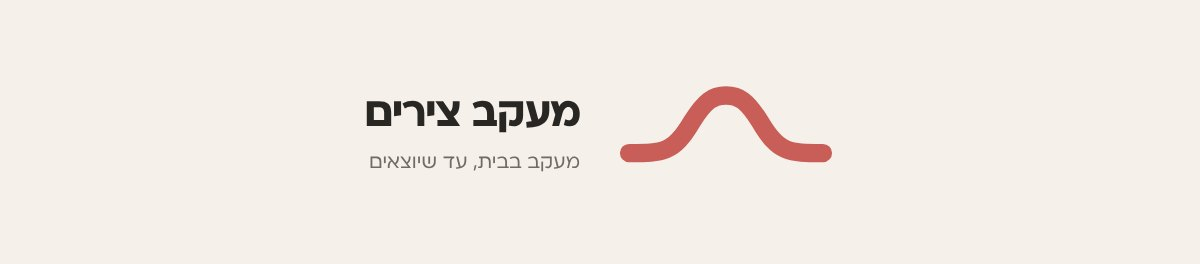
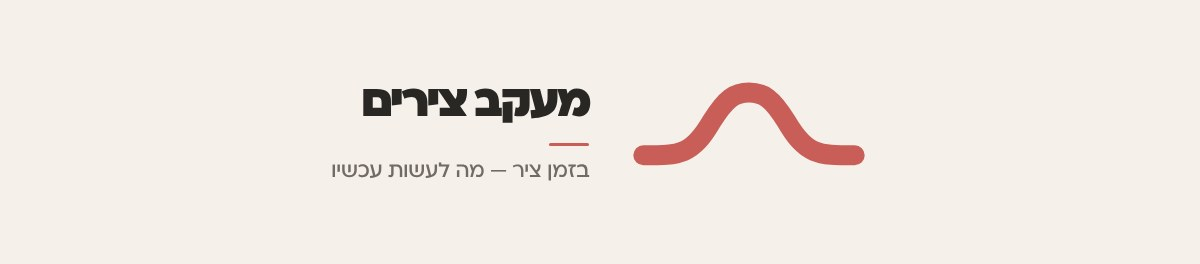
Rewrite the cover around the product line
The share card and banner now lead with the wave and "בזמן ציר — מה לעשות עכשיו" instead of a leftover tagline.

Changed region(s): [[0.2775, 0.303, 0.74, 0.697], [0.2775, 0.3333, 0.4933, 0.5152]]

diff --git a/src/routes/__root.tsx b/src/routes/__root.tsx
@@ -20,7 +20,7 @@ export const Route = createRootRoute({
       { title: APP_NAME },
       { name: "application-name", content: APP_NAME },
       { name: "apple-mobile-web-app-title", content: APP_NAME },
-      { name: "description", content: "מעקב צירים בבית — משך, מרווח וכלל 5-1-1, עד שיוצאים לחדר לידה." },
+      { name: "description", content: "בזמן צירים, כשקשה לחשוב — מה לעשות עכשיו. משך, מרווח, ומתי יוצאים לחדר לידה." },
       { name: "theme-color", content: "#F5F1EA" },
     ],
     links: [

diff --git a/src/components/onboarding.tsx b/src/components/onboarding.tsx
@@ -28,7 +28,7 @@ export function Onboarding() {
       <div className="w-full max-w-md">
         <BrandWave className="mb-4 w-20 text-active" />
         <p className="font-display text-3xl font-bold tracking-tight text-fg">מעקב צירים</p>
-        <p className="mt-1 text-sm text-muted">מעקב בבית, עד שיוצאים</p>
+        <p className="mt-1 text-sm text-muted">בזמן ציר — מה לעשות עכשיו</p>
 
         {step === 0 ? <WhoStep picked={picked} onPick={setPicked} /> : null}
         {step === 1 ? <MeasureStep /> : null}

diff --git a/src/routes/index.tsx b/src/routes/index.tsx
@@ -106,7 +106,7 @@ function TimerPage() {
 
   return (
     <main className="flex min-h-0 flex-1 flex-col">
-      <TopBar title="מעקב צירים" subtitle="מעקב בבית, עד שיוצאים" />
+      <TopBar title="מעקב צירים" subtitle="בזמן ציר — מה לעשות עכשיו" />
       <div className="flex min-h-0 flex-1 flex-col gap-4 overflow-y-auto px-5 pb-4">
         <StatusBanner
           phase={phase}
